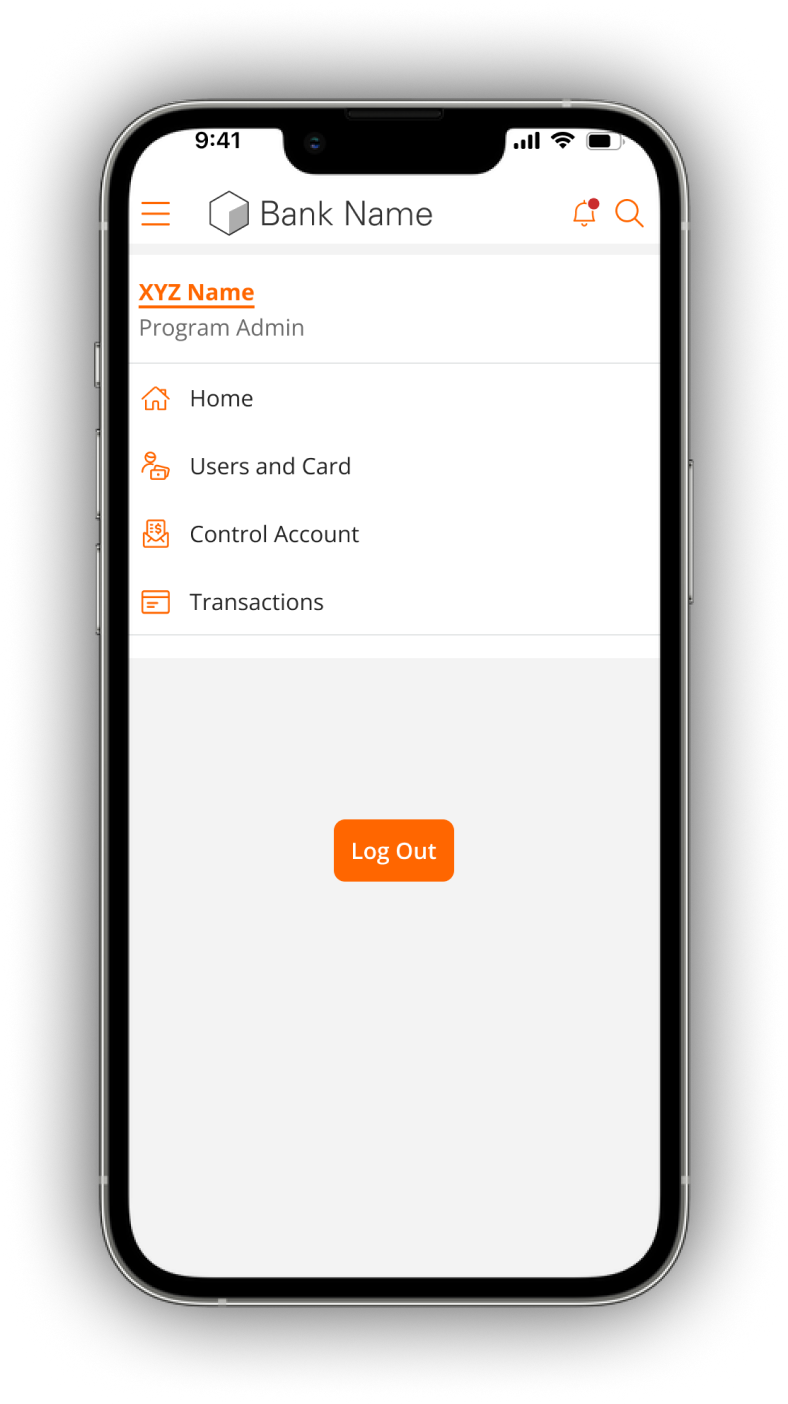
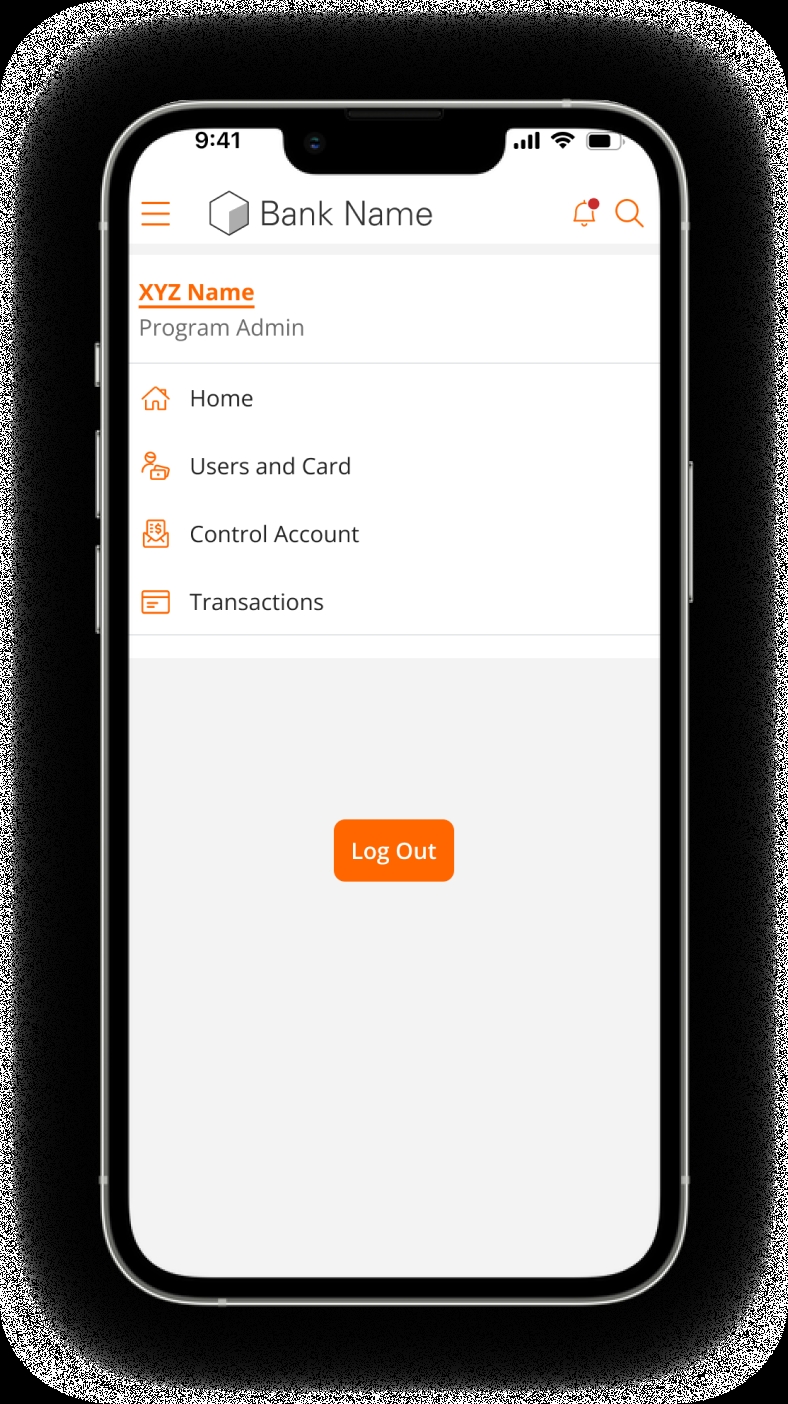
Restructure Solution 06 mobile layout for better phone visibility
Move text+m3 to top row, phones m1+m2 to full-width bottom row so
screens are large and legible instead of cramped quarter-size.

diff --git a/360 Control.dc.html b/360 Control.dc.html
@@ -377,17 +377,19 @@
 
           <!-- Solution 6: Mobile -->
           <div data-reveal="1" style="border-top: 1px solid #ECEDF1; padding: 36px 0;">
-            <div style="display: grid; grid-template-columns: 1fr 1fr; gap: 48px; align-items: center;">
-              <div style="display: grid; grid-template-columns: 1fr 1fr; gap: 20px; align-items: start;">
-                <img src="assets/c360-m1.png" alt="360 Control mobile, program admin navigation" style="display: block; width: 100%; height: auto;">
-                <img src="assets/c360-m2.png" alt="360 Control mobile, users and cards with quick actions" style="display: block; width: 100%; height: auto;">
-              </div>
+            <div style="display: grid; grid-template-columns: 1fr 1fr; gap: 48px; align-items: start; margin-bottom: 32px;">
               <div>
                 <div style="font-family: 'JetBrains Mono', monospace; font-size: 11px; color: #155DFC; margin-bottom: 10px;">SOLUTION 06</div>
                 <h3 style="font-size: 21px; font-weight: 800; letter-spacing: -0.01em; margin: 0 0 12px;">Mobile: a requirement, not an afterthought</h3>
                 <p style="font-size: 15px; line-height: 1.75; color: #364153; margin: 0;">Mobile was a launch-client requirement from day one. I introduced it after core desktop flows stabilized, a deliberate sequencing decision to avoid compounding complexity during the IA redesign. The unified patterns made the translation systematic rather than bespoke.</p>
-                <img src="assets/c360-m3.png" alt="360 Control as a native presence on the phone" style="display: block; width: 100%; height: auto; margin-top: 20px;">
               </div>
+              <div>
+                <img src="assets/c360-m3.png" alt="360 Control as a native presence on the phone" style="display: block; width: 100%; height: auto; border-radius: 8px;">
+              </div>
+            </div>
+            <div style="display: grid; grid-template-columns: 1fr 1fr; gap: 24px; align-items: start; max-width: 640px;">
+              <img src="assets/c360-m1.png" alt="360 Control mobile, program admin navigation" style="display: block; width: 100%; height: auto;">
+              <img src="assets/c360-m2.png" alt="360 Control mobile, users and cards with quick actions" style="display: block; width: 100%; height: auto;">
             </div>
           </div>
 
